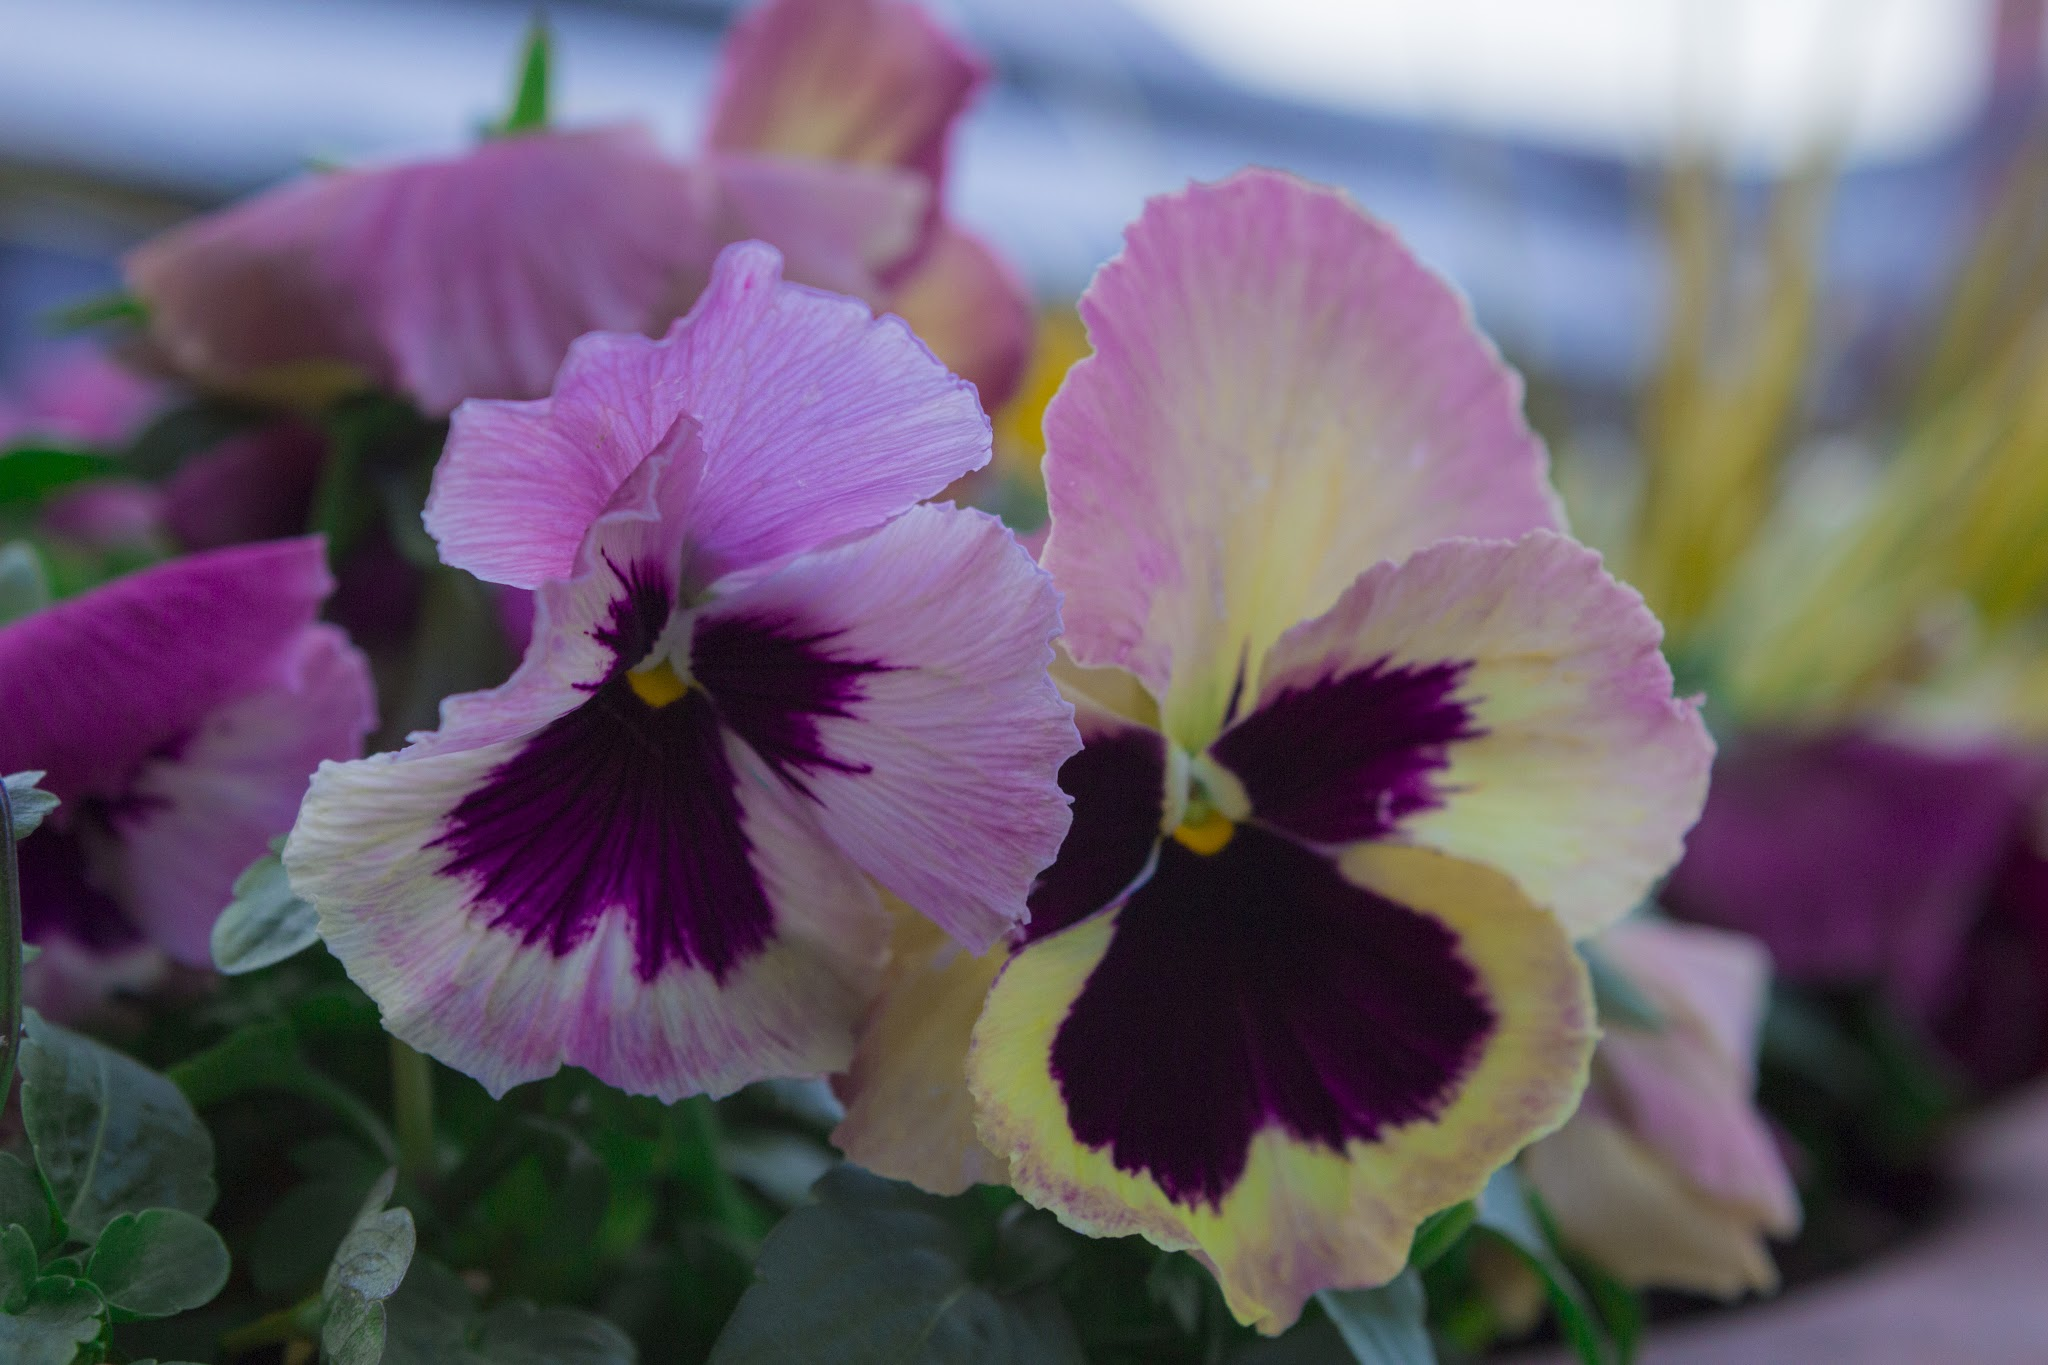
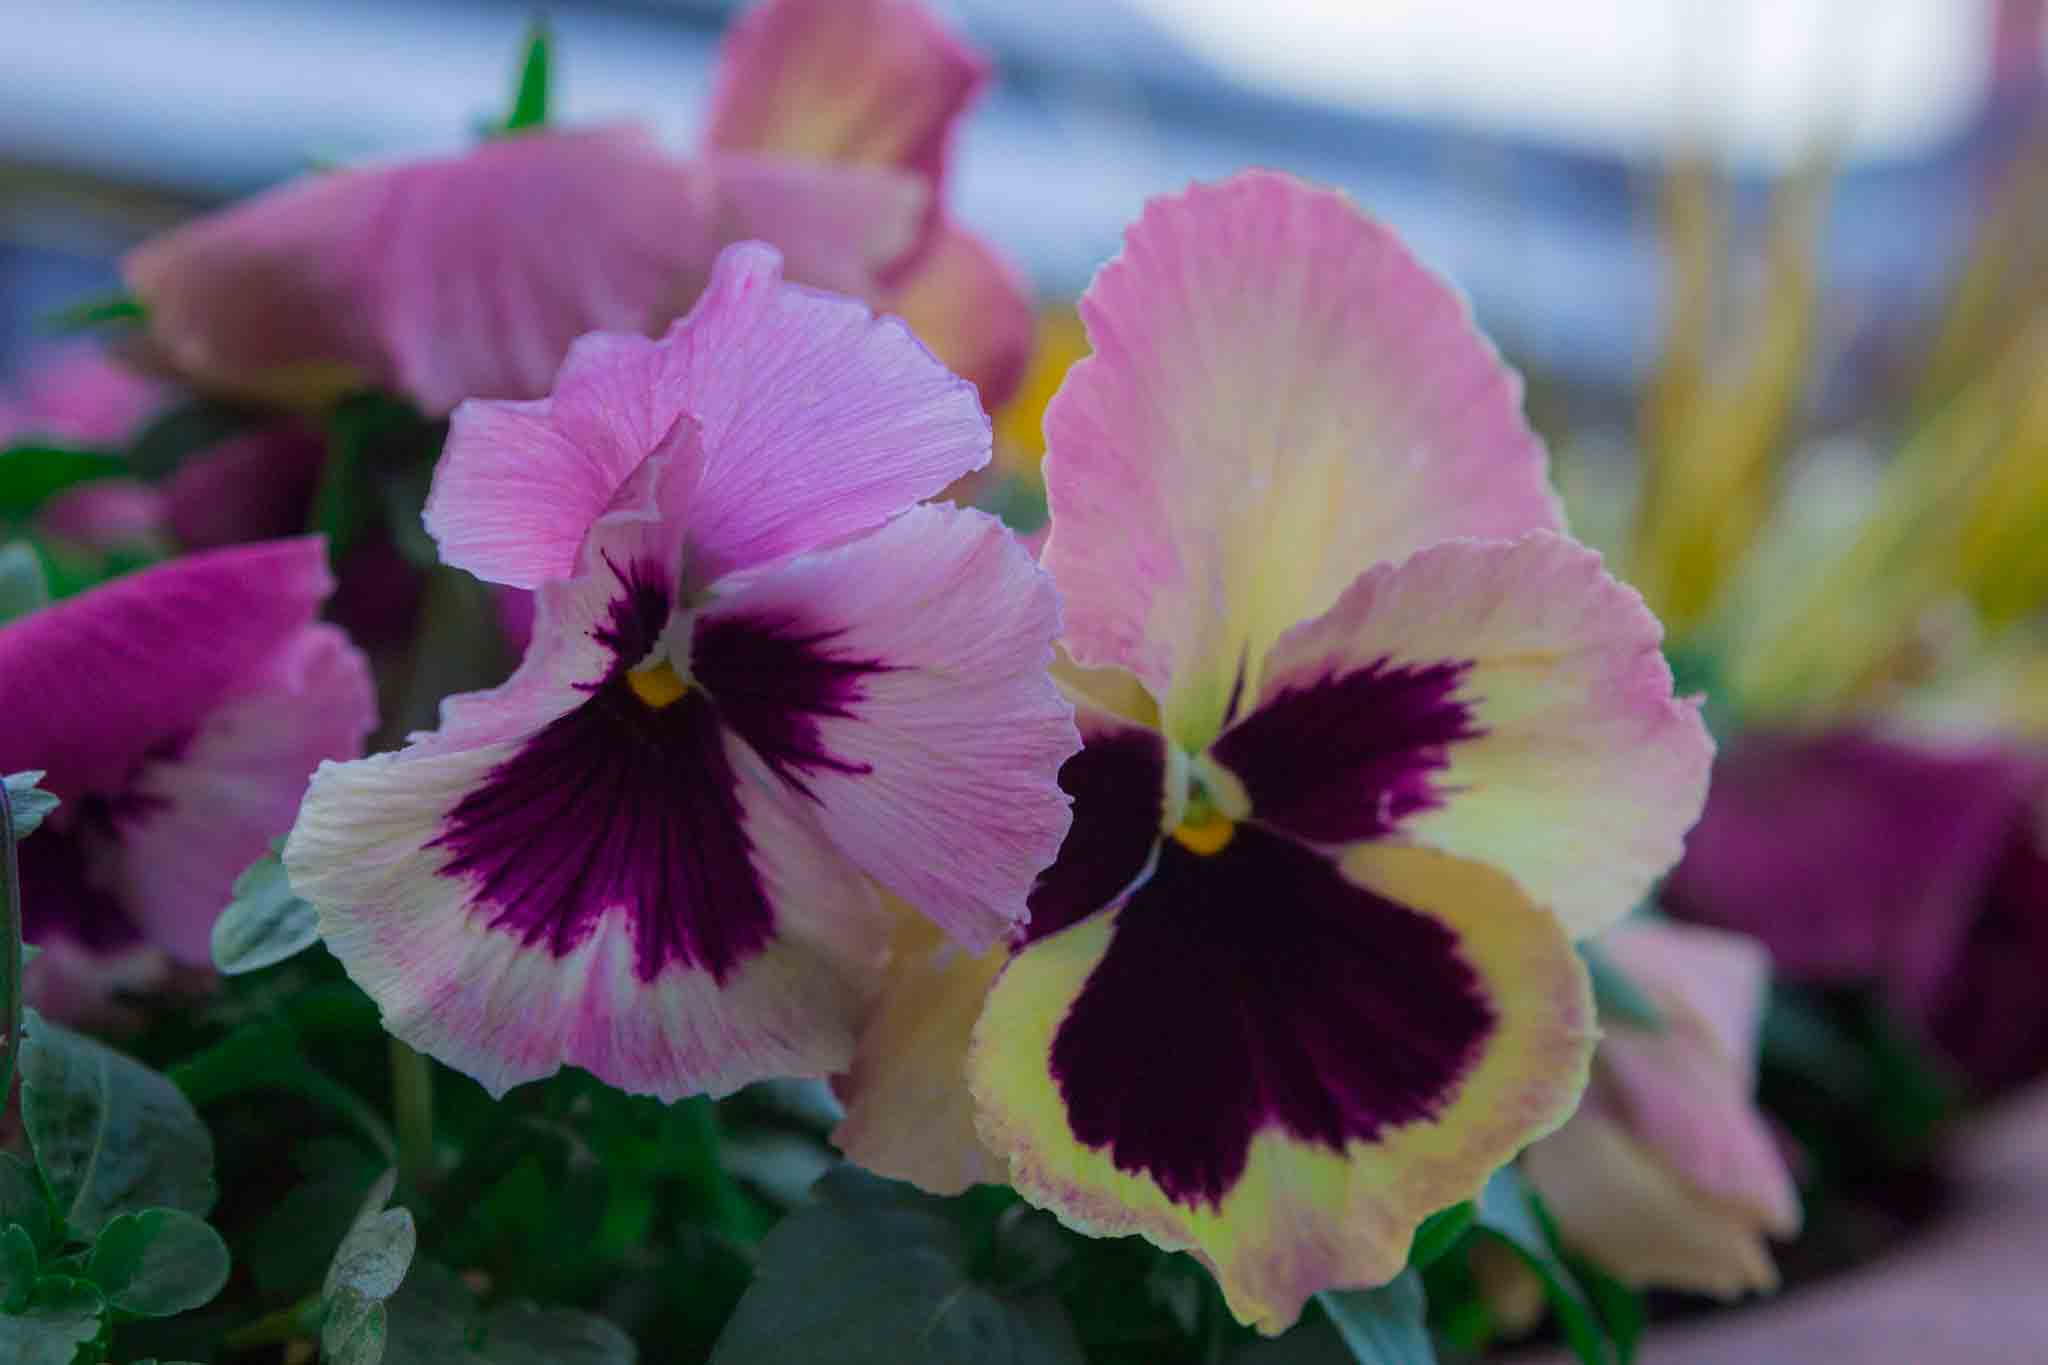
Compressed images for faster load times

diff --git a/content/videos.md b/content/videos.md
@@ -1,7 +1,7 @@
 +++
 date = "2015+05+31T16:17:12+04:00"
 title = "Videography"
-image = "/img/CON_001_01_0032.png"
+image = "/img/CON_001_01_0032.jpg"
 +++
 
 <iframe width="100%" height="" src="https://www.youtube.com/embed/iisfj-ms6v0" frameborder="0" allowfullscreen></iframe>

diff --git a/content/apps.md b/content/apps.md
@@ -1,8 +1,7 @@
 +++
 date = "2015+05+31T16:17:12+04:00"
 title = "Apps"
-image = "/img/apps.png"
-
+image = "/img/apps.jpg"
 +++
 
 # Play Stopper
